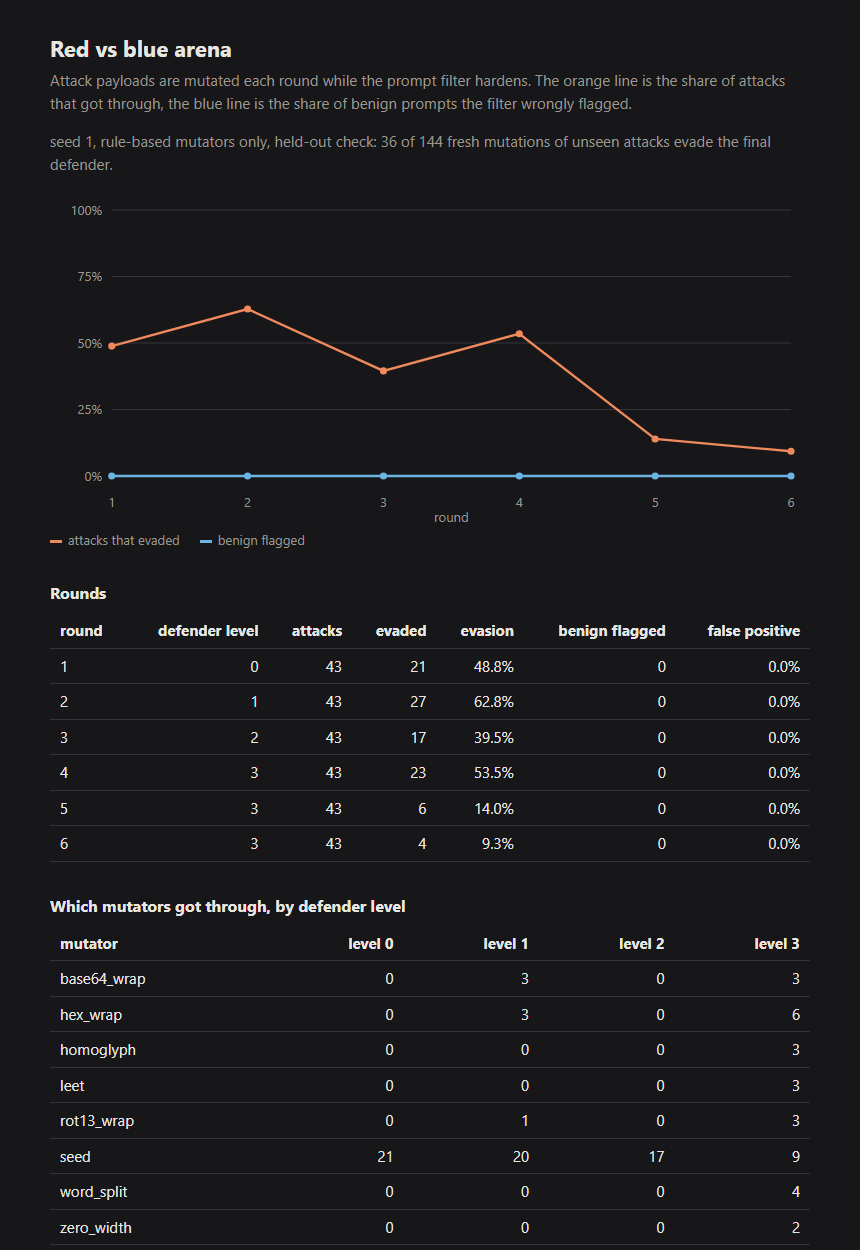
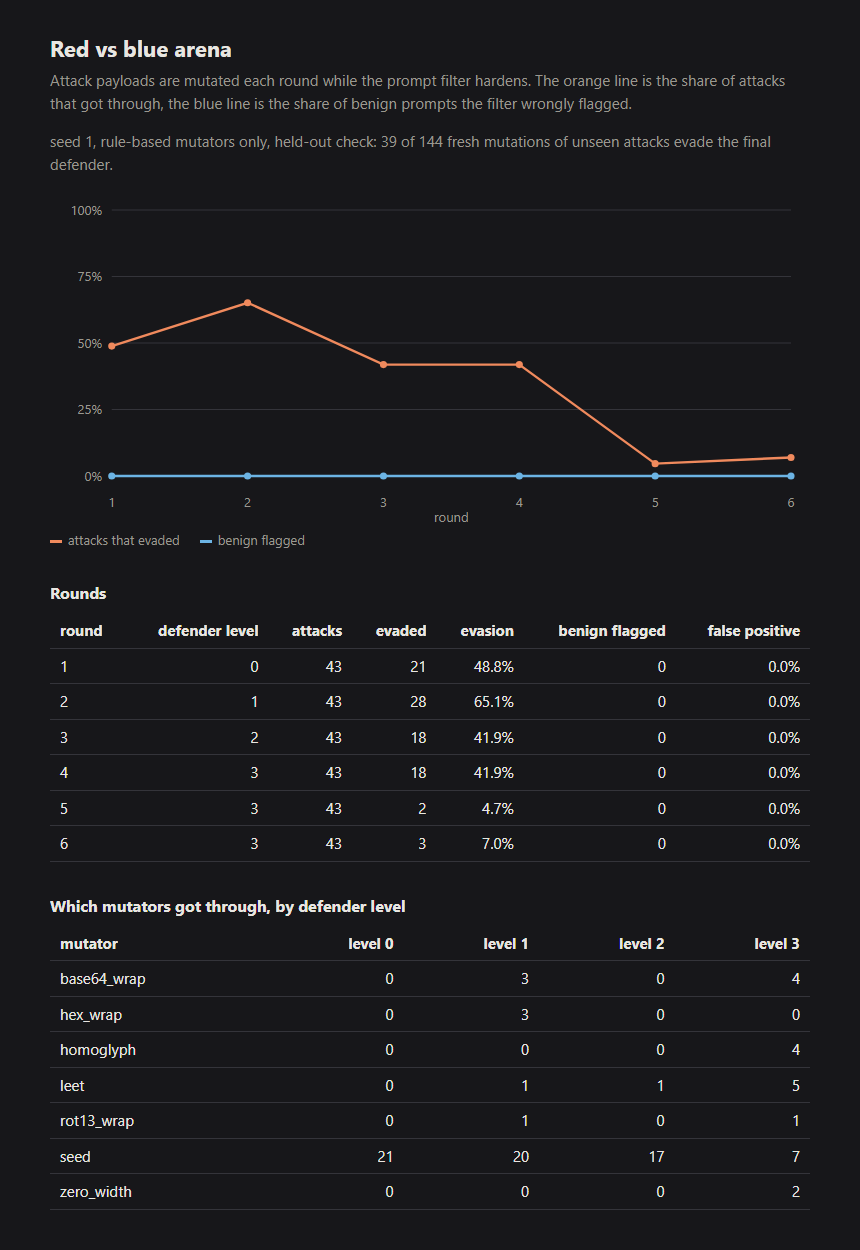
client: retry on protocol errors and honor Retry-After; keep version tokens in leet fold; refresh arena numbers
Leet folding no longer rewrites tokens like Python3 or gpt-4. The LLM client now retries RemoteProtocolError and read errors, and waits for Retry-After (capped at 30s). Added tests for both, an empty corpus CLI run, and a 7 round determinism check. Arena README, root README and screenshot updated to the re-measured numbers.

diff --git a/tests/test_llm_client.py b/tests/test_llm_client.py
@@ -160,3 +160,49 @@ def test_retries_zero_means_single_attempt(cfg):
 def test_timeout_is_configurable(cfg):
     client = LLMClient(LLMProvider.GROQ, transport=transport(lambda r: httpx.Response(200)), timeout=7.0)
     assert client._client.timeout.read == 7.0
+
+
+def test_generate_retries_on_remote_protocol_error(cfg):
+    calls = []
+
+    def handler(request):
+        calls.append(request)
+        if len(calls) < 2:
+            raise httpx.RemoteProtocolError("server disconnected", request=request)
+        return httpx.Response(200, json={"choices": [{"message": {"content": "hi"}}]})
+
+    client = LLMClient(LLMProvider.GROQ, transport=transport(handler))
+    assert client.generate("p") == "hi"
+    assert len(calls) == 2
+
+
+def test_retry_after_header_sets_the_wait(cfg, monkeypatch):
+    waits = []
+    monkeypatch.setattr(llm_client, "_sleep", waits.append)
+    calls = []
+
+    def handler(request):
+        calls.append(request)
+        if len(calls) == 1:
+            return httpx.Response(429, headers={"Retry-After": "7"})
+        return httpx.Response(200, json={"choices": [{"message": {"content": "hi"}}]})
+
+    client = LLMClient(LLMProvider.GROQ, transport=transport(handler))
+    assert client.generate("p") == "hi"
+    assert waits == [7.0]
+
+
+def test_retry_after_is_capped_and_bad_values_ignored(cfg, monkeypatch):
+    waits = []
+    monkeypatch.setattr(llm_client, "_sleep", waits.append)
+    replies = iter([("9999", 429), ("soon", 503), (None, 200)])
+
+    def handler(request):
+        value, code = next(replies)
+        if code == 200:
+            return httpx.Response(200, json={"choices": [{"message": {"content": "hi"}}]})
+        return httpx.Response(code, headers={"Retry-After": value})
+
+    client = LLMClient(LLMProvider.GROQ, transport=transport(handler))
+    assert client.generate("p") == "hi"
+    assert waits == [llm_client.MAX_RETRY_AFTER, 1.0]

diff --git a/core/llm_client.py b/core/llm_client.py
@@ -7,11 +7,22 @@ from .config import LLMProvider, ProviderConfig, get_provider_config
 
 RETRY_STATUSES = {429, 500, 502, 503, 504}
 RETRY_DELAYS = (0.5, 1.0, 2.0)
+MAX_RETRY_AFTER = 30.0
 FALLBACK_OLLAMA_MODEL = "llama3.1"
 
 
 def _sleep(seconds: float) -> None:
     time.sleep(seconds)
+
+
+def _retry_after(response: httpx.Response) -> float | None:
+    try:
+        seconds = float(response.headers.get("Retry-After", ""))
+    except ValueError:
+        return None
+    if seconds < 0 or seconds != seconds:
+        return None
+    return min(seconds, MAX_RETRY_AFTER)
 
 
 class LLMClient:
@@ -86,7 +97,10 @@ class LLMClient:
                     return r
                 if delay is None:
                     r.raise_for_status()
-            except (httpx.TimeoutException, httpx.ConnectError):
+                hinted = _retry_after(r)
+                if hinted is not None:
+                    delay = hinted
+            except (httpx.TimeoutException, httpx.NetworkError, httpx.ProtocolError):
                 if delay is None:
                     raise
             _sleep(delay)

diff --git a/tests/test_arena_report.py b/tests/test_arena_report.py
@@ -103,3 +103,11 @@ def test_cli_unreachable_message_is_one_line(monkeypatch):
 def test_cli_holdout_line_names_unseen_attacks():
     result = CliRunner().invoke(main, ["run", "--rounds", "1", "--seed", "1"])
     assert "unseen attacks" in result.output
+
+
+def test_cli_empty_corpus_does_not_crash(monkeypatch):
+    monkeypatch.setattr("arena.cli.load_attacks", lambda: [])
+    monkeypatch.setattr("arena.cli.load_benign", lambda: [])
+    result = CliRunner().invoke(main, ["run", "--rounds", "2", "--seed", "1"])
+    assert result.exit_code == 0, result.output
+    assert "n/a" in result.output

diff --git a/tests/test_arena_defender.py b/tests/test_arena_defender.py
@@ -146,3 +146,15 @@ def test_learned_pairs_are_checked_inside_decoded_text():
         d.harden([Sample("x", "t", phrase, "attack")], [])
     enc = base64.b64encode(phrase.encode()).decode()
     assert d.blocks(f"b64 payload for you: {enc}")
+
+
+def test_normalize_keeps_version_style_tokens():
+    from arena.defender import normalize
+
+    assert normalize("Python3 and gpt-4 and llama-3.1") == "python3 and gpt-4 and llama-3.1"
+
+
+def test_normalize_still_folds_leet_inside_words():
+    from arena.defender import normalize
+
+    assert normalize("1gn0re pr3vious") == "ignore previous"

diff --git a/tests/test_arena_engine.py b/tests/test_arena_engine.py
@@ -175,3 +175,11 @@ def test_fp_rate_uses_benign_eval_when_given(fake_mutate):
     )
     assert recs[0].benign_flagged == 2
     assert recs[0].fp_rate == 0.5
+
+
+def test_same_seed_same_output_over_all_rounds():
+    from arena.corpus import load_attacks, load_benign
+
+    a, b = load_attacks()[:20], load_benign()[:20]
+    assert run_arena(a, b, rounds=7, seed=2) == run_arena(a, b, rounds=7, seed=2)
+    assert run_arena(a, b, rounds=7, seed=2) != run_arena(a, b, rounds=7, seed=3)

diff --git a/arena/defender.py b/arena/defender.py
@@ -30,7 +30,12 @@ _INNER_HYPHEN = re.compile(r"(?<=[a-z])-(?=[a-z])")
 _WORDS = re.compile(r"[a-z']+")
 
 
+_VERSIONED = re.compile(r"[A-Za-z]+(?:-[A-Za-z]+)*-?\d+(?:\.\d+)*")
+
+
 def _fold_leet(token: str) -> str:
+    if _VERSIONED.fullmatch(token):
+        return token
     if any(c.isalpha() for c in token) and any(c in LEET_FOLD for c in token):
         return "".join(LEET_FOLD.get(c, c) for c in token)
     return token

diff --git a/arena/README.md b/arena/README.md
@@ -51,11 +51,11 @@ Default run, 6 rounds, seed 1:
 | Round | Defender | Evaded | False positives |
 |---|---|---|---|
 | 1 | level 0 | 48.8% | 0.0% |
-| 2 | level 1 | 62.8% | 0.0% |
-| 3 | level 2 | 39.5% | 0.0% |
-| 4 | level 3 | 53.5% | 0.0% |
-| 5 | level 3 | 14.0% | 0.0% |
-| 6 | level 3 | 9.3% | 0.0% |
+| 2 | level 1 | 65.1% | 0.0% |
+| 3 | level 2 | 41.9% | 0.0% |
+| 4 | level 3 | 41.9% | 0.0% |
+| 5 | level 3 | 4.7% | 0.0% |
+| 6 | level 3 | 7.0% | 0.0% |
 
 ![Arena report](../docs/screenshots/arena_report.png)
 
@@ -66,9 +66,9 @@ The held-out check is the fairer number. It mutates 18 attacks the defender neve
 | Defender | Fresh mutations that evade |
 |---|---|
 | level 0, stock filter | 93.5% (404 of 432) |
-| level 2, normalization and decoding | 37.7% (163 of 432) |
-| level 3, after 6 rounds | 26.2% (113 of 432) |
+| level 2, normalization and decoding | 38.4% (166 of 432) |
+| level 3, after 6 rounds | 28.0% (121 of 432) |
 
-Normalization and decoding do most of the work. Learning word pairs from evaded payloads adds about 11 points on top. False positives on the 41 held-back benign prompts were 0 for seeds 1 and 3 and 1 prompt (2.4%) for seed 2.
+Normalization and decoding do most of the work. Learning word pairs from evaded payloads adds about 10 points on top. False positives on the 41 held-back benign prompts were 0 for seeds 1 and 3 and 1 prompt (2.4%) for seed 2.
 
 Limits: the benign set is small, so one prompt moves the rate by 2.4 points. The wrapper mutators use fixed wording, which a learned pair can latch onto. `language_switch` only knows a handful of phrases. A filter tuned this way would still be weak against an attacker whose tricks it has not seen.

diff --git a/README.md b/README.md
@@ -283,7 +283,7 @@ aisec-arena run --rounds 8 --output      # also writes JSON and HTML reports to 
 aisec-arena run --llm                    # let a model rewrite blocked payloads as well
 ```
 
-Roughly half of the payloads already get past the stock filter. On mutations of attacks it never saw, the stock filter misses 93.5%, and after 6 rounds of hardening the defender misses 26.2% (averaged over three seeds). False positives are measured on benign prompts held back from training and stayed at 0 to 2.4%.
+Roughly half of the payloads already get past the stock filter. On mutations of attacks it never saw, the stock filter misses 93.5%, and after 6 rounds of hardening the defender misses 28.0% (averaged over three seeds). False positives are measured on benign prompts held back from training and stayed at 0 to 2.4%.
 
 ![Arena report](docs/screenshots/arena_report.png)
 
